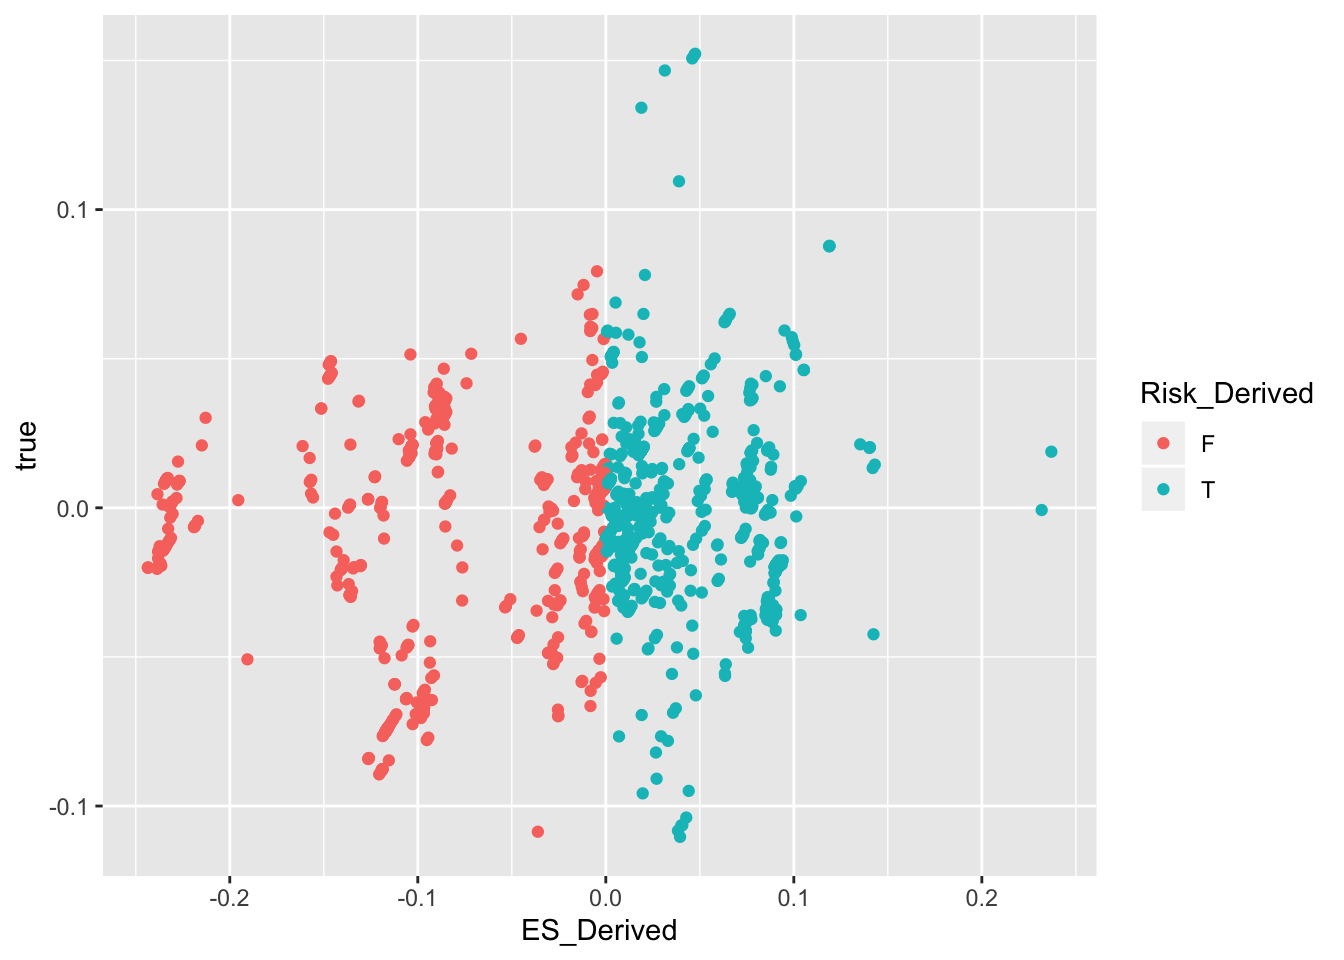
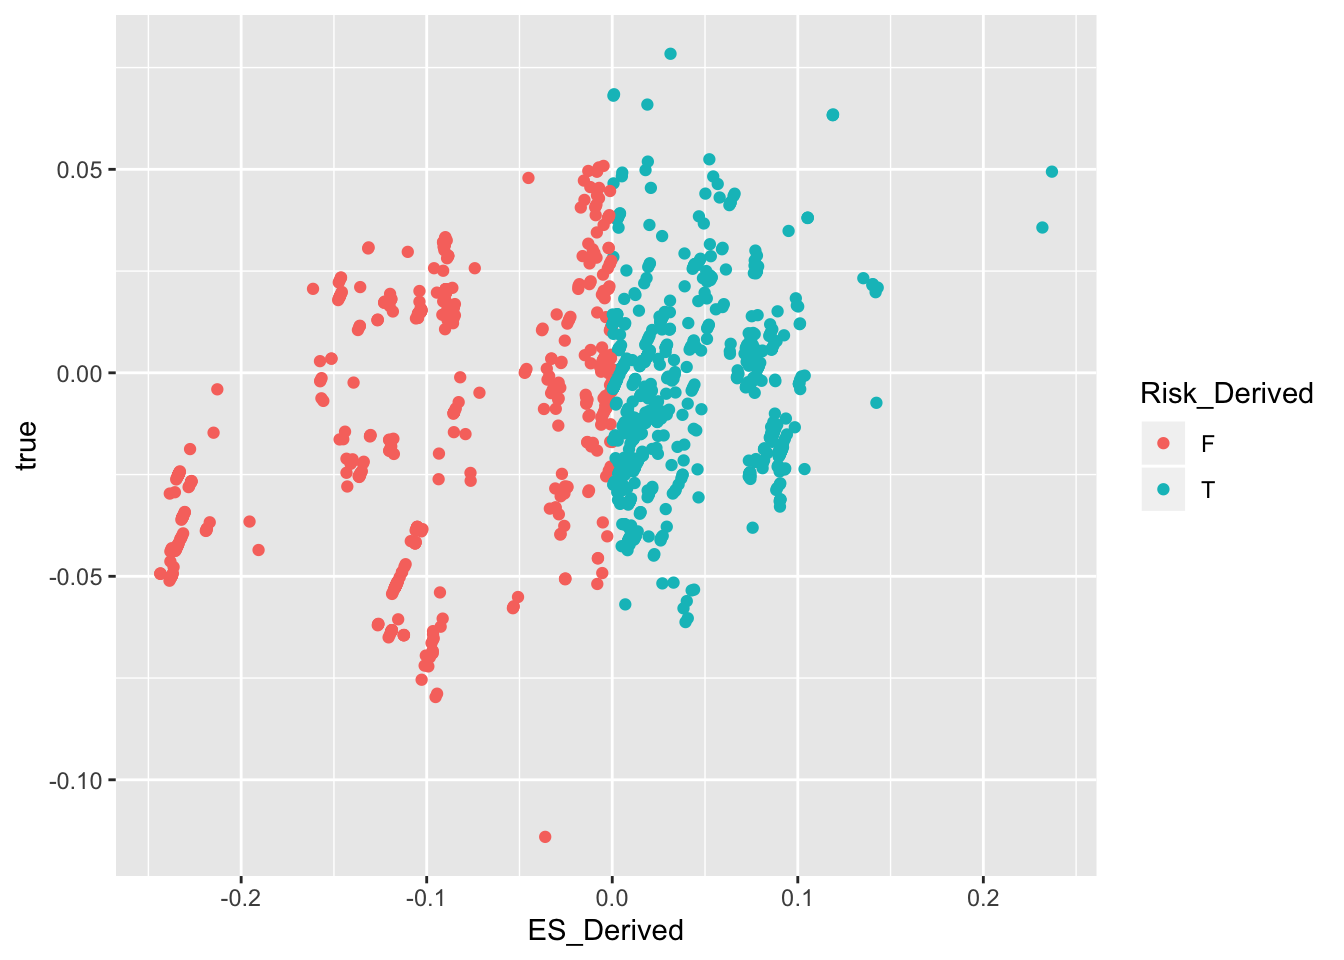
Build site.

diff --git a/docs/STAN_model_strat.html b/docs/STAN_model_strat.html
@@ -502,10 +502,10 @@ This reproducible <a href="http://rmarkdown.rstudio.com">R Markdown</a> analysis
 <div class="panel panel-default">
 <div class="panel-heading">
 <p class="panel-title">
-<a data-toggle="collapse" data-parent="#workflowr-checks" href="#strongRepositoryversionstrongahrefhttpsgithubcomjgblancinfermutationalbiastreef28c165beec8bccab2ee01eb05774e0d64a4ee9atargetblankf28c165a"> <span class="glyphicon glyphicon-ok text-success" aria-hidden="true"></span> <strong>Repository version:</strong> <a href="https://github.com/jgblanc/infer_mutational_bias/tree/f28c165beec8bccab2ee01eb05774e0d64a4ee9a" target="_blank">f28c165</a> </a>
+<a data-toggle="collapse" data-parent="#workflowr-checks" href="#strongRepositoryversionstrongahrefhttpsgithubcomjgblancinfermutationalbiastree6077f68ec043bb597b753eeba15655d386ecf720targetblank6077f68a"> <span class="glyphicon glyphicon-ok text-success" aria-hidden="true"></span> <strong>Repository version:</strong> <a href="https://github.com/jgblanc/infer_mutational_bias/tree/6077f68ec043bb597b753eeba15655d386ecf720" target="_blank">6077f68</a> </a>
 </p>
 </div>
[2 lines of base64/hex data omitted]
 <div class="panel-body">
 <p>
 Great! You are using Git for version control. Tracking code development and connecting the code version to the results is critical for reproducibility. The version displayed above was the version of the Git repository at the time these results were generated. <br><br> Note that you need to be careful to ensure that all relevant files for the analysis have been committed to Git prior to generating the results (you can use <code>wflow_publish</code> or <code>wflow_git_commit</code>). workflowr only checks the R Markdown file, but you know if there are other scripts or data files that it depends on. Below is the status of the Git repository when the results were generated:
@@ -521,7 +521,6 @@ Ignored files:
     Ignored:    .snakemake/shadow/
     Ignored:    .snakemake/singularity/
     Ignored:    analysis/.DS_Store
-    Ignored:    analysis/figure/
     Ignored:    code/.DS_Store
     Ignored:    code/parse_gwas_atlas/.DS_Store
     Ignored:    code/parse_gwas_atlas_nonsig/.DS_Store
@@ -674,6 +673,40 @@ Message
 </tr>
 </thead>
 <tbody>
+<tr>
+<td>
+Rmd
+</td>
+<td>
+<a href="https://github.com/jgblanc/infer_mutational_bias/blob/6077f68ec043bb597b753eeba15655d386ecf720/analysis/STAN_model_strat.Rmd" target="_blank">6077f68</a>
+</td>
+<td>
+jgblanc
+</td>
+<td>
+2020-06-02
+</td>
+<td>
+fixed loadings - for real this time
+</td>
+</tr>
+<tr>
+<td>
+html
+</td>
+<td>
+<a href="https://rawcdn.githack.com/jgblanc/infer_mutational_bias/c478e34c0a77bd148645d84e04b8147847d7e5c8/docs/STAN_model_strat.html" target="_blank">c478e34</a>
+</td>
+<td>
+jgblanc
+</td>
+<td>
+2020-06-02
+</td>
+<td>
+Build site.
+</td>
+</tr>
 <tr>
 <td>
 Rmd
@@ -847,7 +880,10 @@ added new stan model
 <div id="functions-to-simulate-data" class="section level2">
 <h2>Functions to Simulate Data</h2>
 <p>Function to simulate SNP loadings:<br />
-* n = number of PCs * L = number of SNPs * loading_mean = used to skew the loadings * loading_sd = standard deviation used to draw loadings</p>
+* n = number of PCs<br />
+* L = number of SNPs<br />
+* loading_mean = used to skew the loadings<br />
+* loading_sd = standard deviation used to draw loadings</p>
 <pre class="r"><code>simulate_loadings &lt;- function(L, n, loading_mean, loading_sd) {
   loadings &lt;- matrix(0, ncol = L, nrow = n)
   for (i in 1:n) {
@@ -856,8 +892,11 @@ added new stan model
   return(loadings)
 }</code></pre>
 <p>Function to simulate Beta hats:<br />
-* n = number of PCs * L = number of SNPs * Bpc = the true value of <span class="math inline">\(\beta_{PC}\)</span><br />
-* epsilon_sd = standard deviation of the error * loadings = SNP loadings simulated above</p>
+* n = number of PCs<br />
+* L = number of SNPs<br />
+* Bpc = the true value of <span class="math inline">\(\beta_{PC}\)</span><br />
+* epsilon_sd = standard deviation of the error<br />
+* loadings = SNP loadings simulated above</p>
 <pre class="r"><code>calc_beta_hat &lt;- function(L, n, Btrue, Bpc, epsilon_sd, loadings) {
   Bhat &lt;- rep(0, L)
   mat &lt;- matrix(NA, ncol = L, nrow = n)
@@ -1029,9 +1068,17 @@ jgblanc
 </div>
 </div>
 <p>4 PCs no effects</p>
-<pre class="r"><code>mod &lt;- fit_model(L = 1000, n = 4, loading_mean = 1, loading_sd = 1, Bpc = rep(0,4), epsilon_sd = 1, Btrue = rep(0, 1000), b=0.5)
-
-fit_ss &lt;- extract(mod)
+<pre class="r"><code>mod &lt;- fit_model(L = 1000, n = 4, loading_mean = 1, loading_sd = 1, Bpc = rep(0,4), epsilon_sd = 1, Btrue = rep(0, 1000), b=0.5)</code></pre>
+<pre><code>Warning: There were 3983 transitions after warmup that exceeded the maximum treedepth. Increase max_treedepth above 10. See
+http://mc-stan.org/misc/warnings.html#maximum-treedepth-exceeded</code></pre>
+<pre><code>Warning: Examine the pairs() plot to diagnose sampling problems</code></pre>
+<pre><code>Warning: Bulk Effective Samples Size (ESS) is too low, indicating posterior means and medians may be unreliable.
+Running the chains for more iterations may help. See
+http://mc-stan.org/misc/warnings.html#bulk-ess</code></pre>
+<pre><code>Warning: Tail Effective Samples Size (ESS) is too low, indicating posterior variances and tail quantiles may be unreliable.
+Running the chains for more iterations may help. See
+http://mc-stan.org/misc/warnings.html#tail-ess</code></pre>
+<pre class="r"><code>fit_ss &lt;- extract(mod)
 beta &lt;- fit_ss$beta
 par(mfrow = c(2,2))
 hist(beta[,1])
@@ -1211,8 +1258,8 @@ fit_ss &lt;- extract(fit)$beta
 # Posterior Means
 bpos &lt;- colMeans(fit_ss)
 bpos</code></pre>
-<pre><code> [1] -0.004939983  0.029034832  0.033072255  0.005894278  0.026296393
- [6]  0.038629639  0.057178418  0.017234201  0.012270685  0.006703805</code></pre>
+<pre><code> [1]  0.002327818  0.037340951 -0.045567983 -0.028508346 -0.041854469
+ [6]  0.031196282 -0.023099199  0.029627160  0.042982724  0.016422066</code></pre>
 <pre class="r"><code># Calculate True Effect Sizes (should be 0)
 true &lt;- Bhat -  wloadings %*% bpos
 hist(true)</code></pre>
@@ -1239,6 +1286,17 @@ Date
 </tr>
 </thead>
 <tbody>
+<tr>
+<td>
+<a href="https://github.com/jgblanc/infer_mutational_bias/blob/c478e34c0a77bd148645d84e04b8147847d7e5c8/docs/figure/STAN_model_strat.Rmd/unnamed-chunk-12-1.png" target="_blank">c478e34</a>
+</td>
+<td>
+jgblanc
+</td>
+<td>
+2020-06-02
+</td>
+</tr>
 <tr>
 <td>
 <a href="https://github.com/jgblanc/infer_mutational_bias/blob/75b0dcff766d4198fceecd4a6f8ece627ba859c3/docs/figure/STAN_model_strat.Rmd/unnamed-chunk-12-1.png" target="_blank">75b0dcf</a>
@@ -1269,8 +1327,8 @@ fit_ss &lt;- extract(fit)$beta
 # Posterior Means
 bpos &lt;- colMeans(fit_ss)
 bpos</code></pre>
-<pre><code> [1] -0.037687693  0.747670034 -0.019734055  0.052283554 -0.012344353
- [6]  0.023025595 -0.033318243  0.005580967 -0.058659926  0.010755555</code></pre>
+<pre><code> [1] -0.034507392  0.748745646 -0.032839237 -0.009007422  0.012251484
+ [6] -0.010765420 -0.009234299  0.040168434  0.010056108 -0.020646100</code></pre>
 <pre class="r"><code># Calculate True Effect Sizes (should be 0)
 true &lt;- Bhat -  wloadings %*% bpos
 hist(true)</code></pre>
@@ -1297,6 +1355,17 @@ Date
 </tr>
 </thead>
 <tbody>
+<tr>
+<td>
+<a href="https://github.com/jgblanc/infer_mutational_bias/blob/c478e34c0a77bd148645d84e04b8147847d7e5c8/docs/figure/STAN_model_strat.Rmd/unnamed-chunk-14-1.png" target="_blank">c478e34</a>
+</td>
+<td>
+jgblanc
+</td>
+<td>
+2020-06-02
+</td>
+</tr>
 <tr>
 <td>
 <a href="https://github.com/jgblanc/infer_mutational_bias/blob/75b0dcff766d4198fceecd4a6f8ece627ba859c3/docs/figure/STAN_model_strat.Rmd/unnamed-chunk-14-1.png" target="_blank">75b0dcf</a>
@@ -1415,8 +1484,8 @@ for (i in 1:10) {
 # Fit Model 
 data &lt;- list(y = gwas_block$ES_Derived, L = nrow(wloadings), n = 10, x = wloadings, b=0.5)
 #fit &lt;- sampling(simple, data = data, chains=4)
-#saveRDS(fit,&quot;~/Desktop/stan_block653&quot;)</code></pre>
-<pre class="r"><code>fit &lt;- readRDS(&quot;~/Desktop/stan_block653&quot;)
+#saveRDS(fit,&quot;~/Desktop/stan_block653_new&quot;)</code></pre>
+<pre class="r"><code>fit &lt;- readRDS(&quot;~/Desktop/stan_block653_new&quot;)
 # Posterior Means 
 bs &lt;- as.matrix(extract(fit)$beta) 
 bpos &lt;- colMeans(bs)
